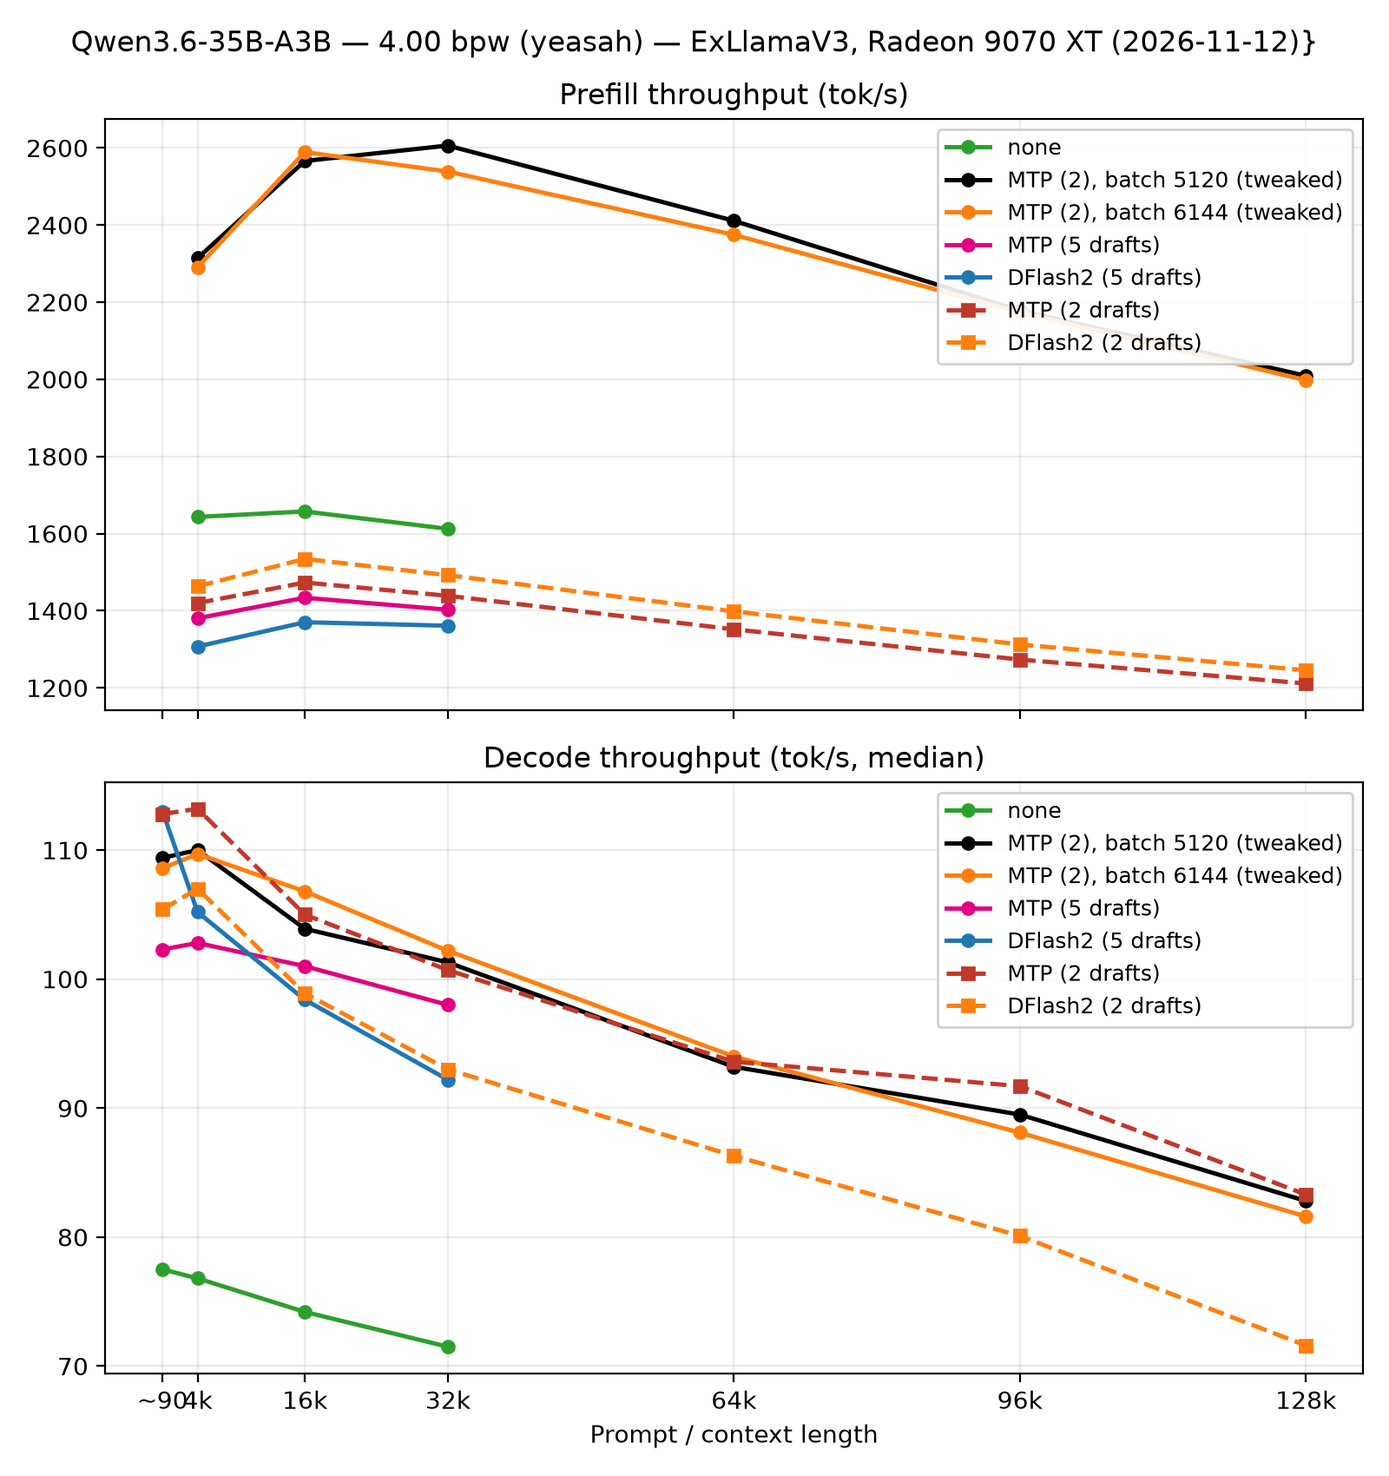
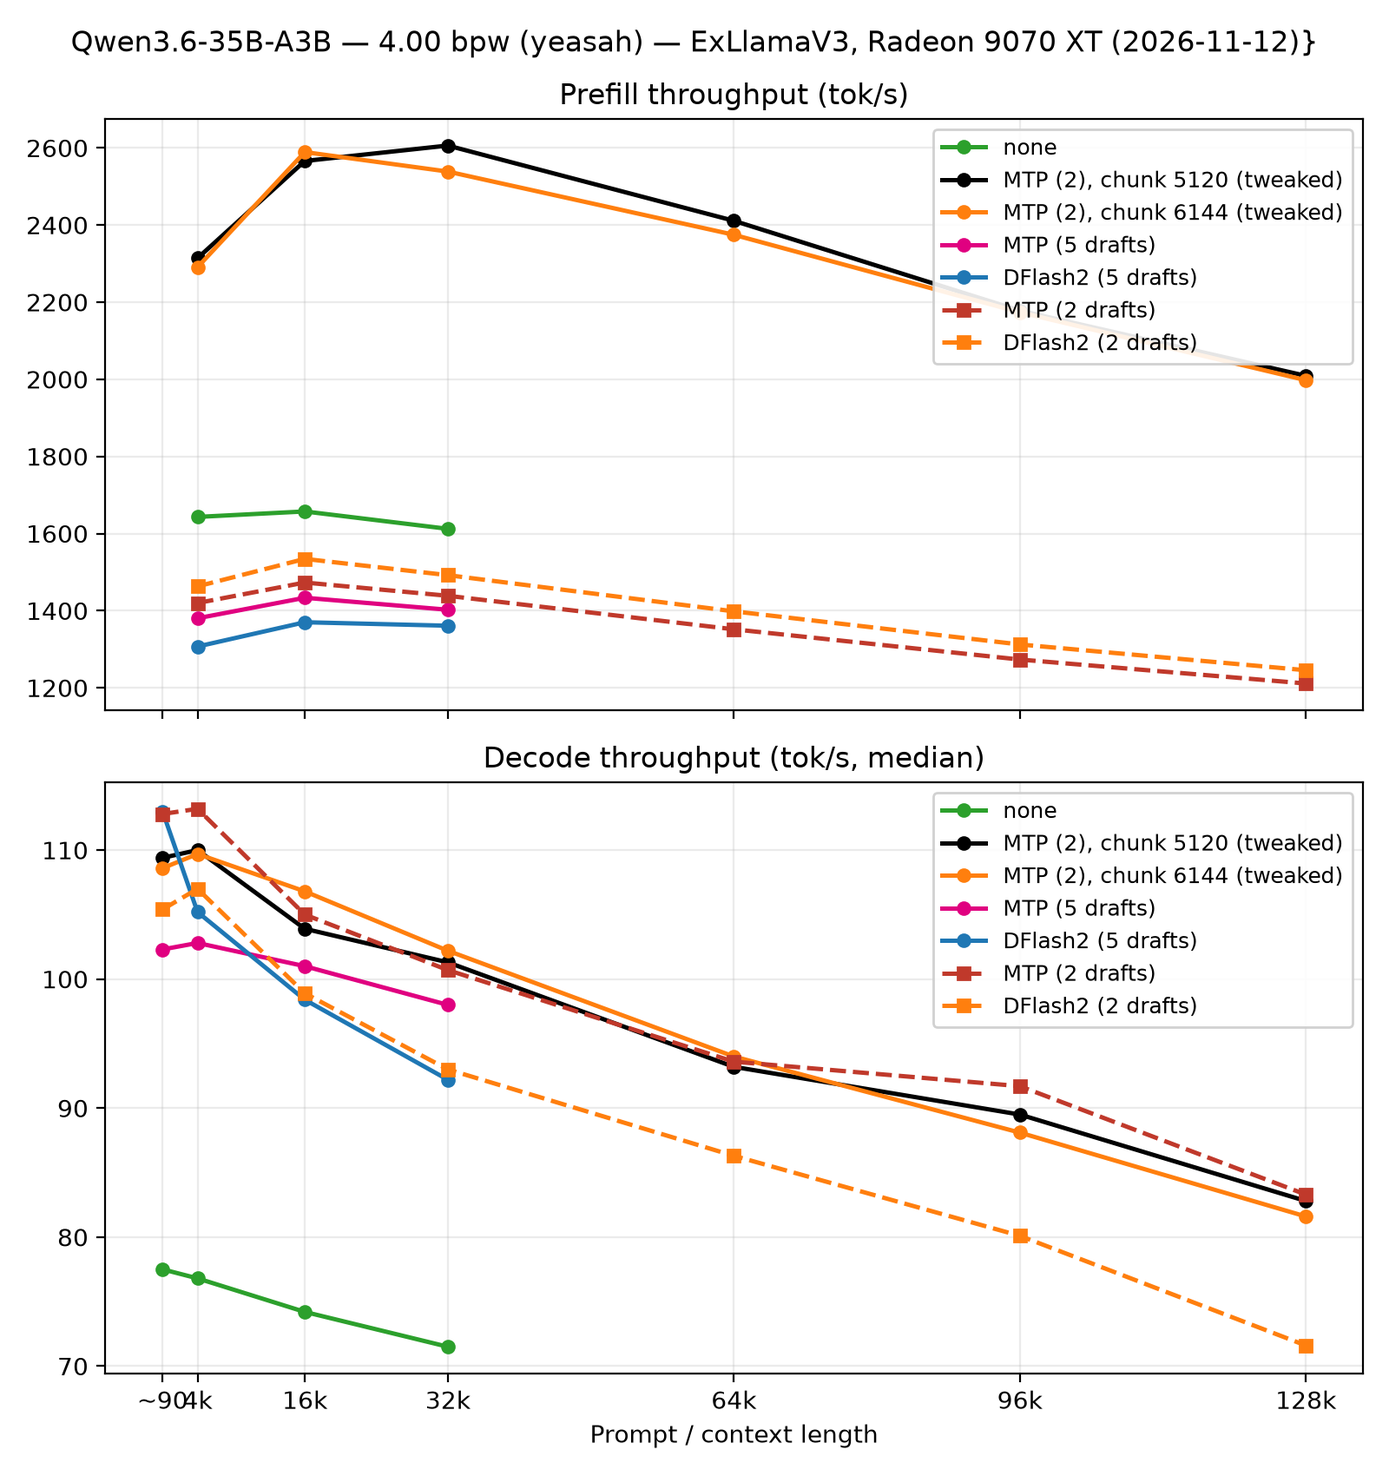
batch size is chunk size.....

Changed region(s): [[0.6562, 0.0935, 0.875, 0.2494], [0.6562, 0.53, 0.875, 0.6859]]

diff --git a/plots/qwen_per_quant.py b/plots/qwen_per_quant.py
@@ -20,8 +20,8 @@ quants = {
             "none":      [1643.1, 1657.3, 1612.2],
             "MTP":       [1380.3, 1433.5, 1402.4],
             "DFlash2":   [1307.0, 1370.0, 1361.0],
-            "MTP (2), batch 5120 (tweaked)": [2314, 2566, 2606, 2411, 2178, 2009],
-            "MTP (2), batch 6144 (tweaked)": [2290.7, 2589.1, 2538.6, 2374.7, 2173.8, 1997.7],
+            "MTP (2), chunk 5120 (tweaked)": [2314, 2566, 2606, 2411, 2178, 2009],
+            "MTP (2), chunk 6144 (tweaked)": [2290.7, 2589.1, 2538.6, 2374.7, 2173.8, 1997.7],
             "MTP (2 drafts)": [1419.8, 1473.0, 1438.6, 1351.7, 1273.3, 1211.2],
             "DFlash2 (2 drafts)": [1463.0, 1534.3, 1492.1, 1398.3, 1312.4, 1245.6],
         },
@@ -29,8 +29,8 @@ quants = {
             "none":      [77.5, 76.8, 74.2, 71.5],
             "MTP":       [102.3, 102.8, 101.0, 98.0],
             "DFlash2":   [113.0, 105.2, 98.4, 92.2],
-            "MTP (2), batch 5120 (tweaked)": [109.4, 110.0, 103.9, 101.3, 93.2, 89.5, 82.8],
-            "MTP (2), batch 6144 (tweaked)": [108.6, 109.7, 106.8, 102.2, 94.0, 88.1, 81.6],
+            "MTP (2), chunk 5120 (tweaked)": [109.4, 110.0, 103.9, 101.3, 93.2, 89.5, 82.8],
+            "MTP (2), chunk 6144 (tweaked)": [108.6, 109.7, 106.8, 102.2, 94.0, 88.1, 81.6],
             "MTP (2 drafts)": [112.8, 113.2, 105.0, 100.7, 93.6, 91.7, 83.3],
             "DFlash2 (2 drafts)": [105.4, 107.0, 98.9, 93.0, 86.3, 80.1, 71.6],
         },
@@ -96,12 +96,12 @@ quants = {
 }
 
 # draw order, color, line style
-order = ["none", "MTP (2), batch 5120 (tweaked)", "MTP (2), batch 6144 (tweaked)", "MTP", "DFlash2", "PolyStrata", "MTP (2 drafts)", "DFlash2 (2 drafts)"]
-colors = {"none": "#2ca02c", "MTP (2), batch 5120 (tweaked)": "#000000",
-          "MTP (2), batch 6144 (tweaked)": "#ff7f0e", "MTP": "#e00080", "DFlash2": "#1f77b4",
+order = ["none", "MTP (2), chunk 5120 (tweaked)", "MTP (2), chunk 6144 (tweaked)", "MTP", "DFlash2", "PolyStrata", "MTP (2 drafts)", "DFlash2 (2 drafts)"]
+colors = {"none": "#2ca02c", "MTP (2), chunk 5120 (tweaked)": "#000000",
+          "MTP (2), chunk 6144 (tweaked)": "#ff7f0e", "MTP": "#e00080", "DFlash2": "#1f77b4",
           "PolyStrata": "#9467bd",
           "MTP (2 drafts)": "#c0392b", "DFlash2 (2 drafts)": "#ff7f0e"}
-styles = {"none": "-", "MTP (2), batch 5120 (tweaked)": "-", "MTP (2), batch 6144 (tweaked)": "-", "MTP": "-", "DFlash2": "-", "PolyStrata": "-",
+styles = {"none": "-", "MTP (2), chunk 5120 (tweaked)": "-", "MTP (2), chunk 6144 (tweaked)": "-", "MTP": "-", "DFlash2": "-", "PolyStrata": "-",
           "MTP (2 drafts)": "--", "DFlash2 (2 drafts)": "--"}
 
 

diff --git a/plots/best_q4_128k.py b/plots/best_q4_128k.py
@@ -33,17 +33,17 @@ RUNS = [
     },
     {
         # Qwen3.6 winner: EXL3 4.0 bpw, MTP (2 draft tokens, no external
-        # drafter) on the tweaked baseline, batch 5120 (12:59Z FULL RUN)
+        # drafter) on the tweaked baseline, chunk 5120 (12:59Z FULL RUN)
         # 128k total 2 009 + 82.8 = 2 092.
-        "label": "Qwen3.6-35B-A3B — EXL3 4.0 bpw, MTP (2), batch 5120 — exllamav3 (tweaked, 12:59Z)",
+        "label": "Qwen3.6-35B-A3B — EXL3 4.0 bpw, MTP (2), chunk 5120 — exllamav3 (tweaked, 12:59Z)",
         "color": "#1f77b4",
         "prefill": [2314, 2566, 2606, 2411, 2178, 2009],
         "decode": [109.4, 110.0, 103.9, 101.3, 93.2, 89.5, 82.8],
     },
     {
-        # 2026-11-17 re-run of the tweaked baseline with batch 6144 —
+        # 2026-11-17 re-run of the tweaked baseline with chunk 6144 —
         # within ~2% of the winner everywhere (128k total 2 079), not a win.
-        "label": "Qwen3.6-35B-A3B — EXL3 4.0 bpw, MTP (2), batch 6144 — exllamav3 (tweaked, 11-17)",
+        "label": "Qwen3.6-35B-A3B — EXL3 4.0 bpw, MTP (2), chunk 6144 — exllamav3 (tweaked, 11-17)",
         "color": "#9ecae1",
         "prefill": [2290.7, 2589.1, 2538.6, 2374.7, 2173.8, 1997.7],
         "decode": [108.6, 109.7, 106.8, 102.2, 94.0, 88.1, 81.6],

diff --git a/plots/generate_graphs.py b/plots/generate_graphs.py
@@ -11,7 +11,7 @@ import os
 RESULTS_DIR = "/home/willyhetland/Storage/code/llm-bench/results"
 OUTPUT_DIR = "/home/willyhetland/Storage/code/moe-offload-bench/plots"
 
-# Load all Qwen3.6-35B-A3B tweak runs (2026-11-15 bake-off + 2026-11-17 batch 6144)
+# Load all Qwen3.6-35B-A3B tweak runs (2026-11-15 bake-off + 2026-11-17 chunk 6144)
 files = sorted([
     f for f in os.listdir(RESULTS_DIR)
     if f.startswith(("20261115", "20261117")) and "qwen3-6-35b" in f
@@ -26,11 +26,11 @@ for f in files:
 # Extract key metrics
 labels = [r["tag"] for r in runs]
 short_labels = [
-    "batch inc\nno cpu_threads",
-    "batch 4096\npinned false",
+    "chunk inc\nno cpu_threads",
+    "chunk 4096\npinned false",
     "pinned true",
-    "batch 4096\ncpu_threads 6",
-    "batch 5120\ncpu_threads 6",
+    "chunk 4096\ncpu_threads 6",
+    "chunk 5120\ncpu_threads 6",
     "swizzle -1",
     "wide -1",
     "gdn_sub 2048",

diff --git a/Qwen3.6-35b-a3b-improvements.md b/Qwen3.6-35b-a3b-improvements.md
@@ -6,8 +6,8 @@ Each run has its own config directory under `configs/` with a `config.yml` and `
 
 | Run | Directory | Key Differences |
 |-----|-----------|-----------------|
-| 1 | [configs/run1-batch5120/](configs/run1-batch5120/) | chunk_size 5120, pinned_arena false, vision_offload true, threads 7 |
-| 2 | [configs/run2-batch4096/](configs/run2-batch4096/) | chunk_size 4096, pinned_arena false, vision_offload true, threads 7 |
+| 1 | [configs/run1-chunk5120/](configs/run1-chunk5120/) | chunk_size 5120, pinned_arena false, vision_offload true, threads 7 |
+| 2 | [configs/run2-chunk4096/](configs/run2-chunk4096/) | chunk_size 4096, pinned_arena false, vision_offload true, threads 7 |
 | 3 | [configs/run3-pinned-true/](configs/run3-pinned-true/) | chunk_size 4096, pinned_arena **true**, vision_offload true |
 | 4 | [configs/run4-no-vision-offload/](configs/run4-no-vision-offload/) | chunk_size 4096, pinned_arena false, vision_offload **false** |
 
@@ -21,17 +21,17 @@ All runs share `EXL3_QC_STAGING=1` and `EXL3_GDN_REPLAY=1`. Runs 2–4 were laun
 
 | # | Timestamp | Tag | Chunk Size | Pinned Arena | VRAM | Decode TPS (med) | Decode @4k (med) | Decode @16k (med) | Decode @32k (med) |
 |---|-----------|-----|------------|--------------|------|------------------|------------------|-------------------|-------------------|
-| 0 | 2026-11-15 11:27 | pinned experts false, batch increase (no cpu_stage_threads) | — | false | — | 97.95 | 100.09 | 98.12 | 94.01 |
-| 1 | 2026-11-15 12:04 | pinned experts false, batch 5120, vision offload, cpu_stage_threads 6, threads 7 | 5120 | false | 14.7 GB | **118.94** | **114.67** | **106.98** | **104.13** |
-| 2 | 2026-11-15 11:56 | pinned experts false, batch 4096, vision offload, cpu_stage_threads 6, threads 7 | 4096 | false | 14.5 GB | 117.71 | 115.28 | 108.25 | 101.54 |
-| 3 | 2026-11-15 11:50 | pinned experts true, batch 4096, vision offload | 4096 | true | 13.5 GB | 112.67 | 110.51 | 103.24 | 96.18 |
-| 4 | 2026-11-15 11:44 | pinned experts false, batch 4096 | 4096 | false | — | 106.59 | 107.27 | 103.19 | 97.45 |
-| 5 | 2026-11-15 12:27 | pinned experts false, batch 5120, vision offload, cpu_stage_threads 6, threads 7, **swizzle -1** | 5120 | false | 14.7 GB | 112.36 | 114.36 | 105.67 | 104.29 |
-| 6 | 2026-11-15 12:37 | pinned experts false, batch 5120, vision offload, cpu_stage_threads 6, threads 7, **wide -1** | 5120 | false | 14.7 GB | 107.31 | 113.13 | 103.87 | 102.98 |
-| 7 | 2026-11-15 12:45 | pinned experts false, batch 5120, vision offload, cpu_stage_threads 6, threads 7, **gdn_sub_chunk 2048** | 5120 | false | 14.7 GB | 105.73 | 107.40 | 102.42 | 96.85 |
-| 8 | 2026-11-15 12:52 | pinned experts false, batch 5120, vision offload, cpu_stage_threads 6, threads 7, **bc_gdn -1** | 5120 | false | 14.7 GB | 109.18 | 110.24 | 105.05 | 96.58 |
-| 9 | 2026-11-15 12:59 | pinned experts false, batch 5120, vision offload, cpu_stage_threads 6, threads 7, **FULL RUN** (4k→128k), MTP (2) | 5120 | false | 14.7 GB | 109.37 | 109.97 | 103.90 | 101.28 |
-| 10 | 2026-11-17 09:59 | pinned experts false, batch 6144, vision offload, cpu_stage_threads 6, threads 7, **FULL RUN** (4k→128k), MTP (2) | **6144** | false | 15 GB | 108.56 | 109.73 | 106.81 | 102.15 |
+| 0 | 2026-11-15 11:27 | pinned experts false, chunk increase (no cpu_stage_threads) | — | false | — | 97.95 | 100.09 | 98.12 | 94.01 |
+| 1 | 2026-11-15 12:04 | pinned experts false, chunk 5120, vision offload, cpu_stage_threads 6, threads 7 | 5120 | false | 14.7 GB | **118.94** | **114.67** | **106.98** | **104.13** |
+| 2 | 2026-11-15 11:56 | pinned experts false, chunk 4096, vision offload, cpu_stage_threads 6, threads 7 | 4096 | false | 14.5 GB | 117.71 | 115.28 | 108.25 | 101.54 |
+| 3 | 2026-11-15 11:50 | pinned experts true, chunk 4096, vision offload | 4096 | true | 13.5 GB | 112.67 | 110.51 | 103.24 | 96.18 |
+| 4 | 2026-11-15 11:44 | pinned experts false, chunk 4096 | 4096 | false | — | 106.59 | 107.27 | 103.19 | 97.45 |
+| 5 | 2026-11-15 12:27 | pinned experts false, chunk 5120, vision offload, cpu_stage_threads 6, threads 7, **swizzle -1** | 5120 | false | 14.7 GB | 112.36 | 114.36 | 105.67 | 104.29 |
+| 6 | 2026-11-15 12:37 | pinned experts false, chunk 5120, vision offload, cpu_stage_threads 6, threads 7, **wide -1** | 5120 | false | 14.7 GB | 107.31 | 113.13 | 103.87 | 102.98 |
+| 7 | 2026-11-15 12:45 | pinned experts false, chunk 5120, vision offload, cpu_stage_threads 6, threads 7, **gdn_sub_chunk 2048** | 5120 | false | 14.7 GB | 105.73 | 107.40 | 102.42 | 96.85 |
+| 8 | 2026-11-15 12:52 | pinned experts false, chunk 5120, vision offload, cpu_stage_threads 6, threads 7, **bc_gdn -1** | 5120 | false | 14.7 GB | 109.18 | 110.24 | 105.05 | 96.58 |
+| 9 | 2026-11-15 12:59 | pinned experts false, chunk 5120, vision offload, cpu_stage_threads 6, threads 7, **FULL RUN** (4k→128k), MTP (2) | 5120 | false | 14.7 GB | 109.37 | 109.97 | 103.90 | 101.28 |
+| 10 | 2026-11-17 09:59 | pinned experts false, chunk 6144, vision offload, cpu_stage_threads 6, threads 7, **FULL RUN** (4k→128k), MTP (2) | **6144** | false | 15 GB | 108.56 | 109.73 | 106.81 | 102.15 |
 
 > **Run 10 (2026-11-17 09:59) power & VRAM:** GPU at ~260 W, VRAM max ~15.3 GB.
 >
@@ -122,17 +122,17 @@ Full benchmark JSONs are stored in the `results/` directory:
 |---|------|-----|
 | # | File | Tag |
 |---|------|-----|
-| 0 | [results/20261115T112713Z-qwen3-6-35b-a3b-exl3-4-00bpw.json](results/qwen/20261115T112713Z-qwen3-6-35b-a3b-exl3-4-00bpw.json) | pinned experts false, batch increase (no cpu_stage_threads) |
-| 1 | [results/20261115T114428Z-qwen3-6-35b-a3b-exl3-4-00bpw.json](results/qwen/20261115T114428Z-qwen3-6-35b-a3b-exl3-4-00bpw.json) | pinned experts false, batch 4096 |
-| 2 | [results/20261115T115017Z-qwen3-6-35b-a3b-exl3-4-00bpw.json](results/qwen/20261115T115017Z-qwen3-6-35b-a3b-exl3-4-00bpw.json) | pinned experts true, batch 4096, vision offload |
-| 3 | [results/20261115T115658Z-qwen3-6-35b-a3b-exl3-4-00bpw.json](results/qwen/20261115T115658Z-qwen3-6-35b-a3b-exl3-4-00bpw.json) | pinned experts false, batch 4096, vision offload, cpu_stage_threads 6, threads 7 |
-| 4 | [results/20261115T120402Z-qwen3-6-35b-a3b-exl3-4-00bpw.json](results/qwen/20261115T120402Z-qwen3-6-35b-a3b-exl3-4-00bpw.json) | pinned experts false, batch 5120, vision offload, cpu_stage_threads 6, threads 7 |
-| 5 | [results/20261115T122705Z-qwen3-6-35b-a3b-exl3-4-00bpw.json](results/qwen/20261115T122705Z-qwen3-6-35b-a3b-exl3-4-00bpw.json) | pinned experts false, batch 5120, vision offload, cpu_stage_threads 6, threads 7, swizzle -1 |
-| 6 | [results/20261115T123728Z-qwen3-6-35b-a3b-exl3-4-00bpw.json](results/qwen/20261115T123728Z-qwen3-6-35b-a3b-exl3-4-00bpw.json) | pinned experts false, batch 5120, vision offload, cpu_stage_threads 6, threads 7, wide -1 |
-| 7 | [results/20261115T124540Z-qwen3-6-35b-a3b-exl3-4-00bpw.json](results/qwen/20261115T124540Z-qwen3-6-35b-a3b-exl3-4-00bpw.json) | pinned experts false, batch 5120, vision offload, cpu_stage_threads 6, threads 7, gdn_sub_chunk 2048 |
-| 8 | [results/20261115T125239Z-qwen3-6-35b-a3b-exl3-4-00bpw.json](results/qwen/20261115T125239Z-qwen3-6-35b-a3b-exl3-4-00bpw.json) | pinned experts false, batch 5120, vision offload, cpu_stage_threads 6, threads 7, bc_gdn -1 |
-| 9 | [results/20261115T125911Z-qwen3-6-35b-a3b-exl3-4-00bpw.json](results/qwen/20261115T125911Z-qwen3-6-35b-a3b-exl3-4-00bpw.json) | pinned experts false, batch 5120, vision offload, cpu_stage_threads 6, threads 7, FULL RUN (4k→128k), MTP (2) |
-| 10 | [results/20261117T095948Z-qwen3-6-35b-a3b-exl3-4-00bpw.json](results/qwen/20261117T095948Z-qwen3-6-35b-a3b-exl3-4-00bpw.json) | pinned experts false, batch 6144, vision offload, cpu_stage_threads 6, threads 7, FULL RUN (4k→128k), MTP (2) |
+| 0 | [results/20261115T112713Z-qwen3-6-35b-a3b-exl3-4-00bpw.json](results/qwen/20261115T112713Z-qwen3-6-35b-a3b-exl3-4-00bpw.json) | pinned experts false, chunk increase (no cpu_stage_threads) |
+| 1 | [results/20261115T114428Z-qwen3-6-35b-a3b-exl3-4-00bpw.json](results/qwen/20261115T114428Z-qwen3-6-35b-a3b-exl3-4-00bpw.json) | pinned experts false, chunk 4096 |
+| 2 | [results/20261115T115017Z-qwen3-6-35b-a3b-exl3-4-00bpw.json](results/qwen/20261115T115017Z-qwen3-6-35b-a3b-exl3-4-00bpw.json) | pinned experts true, chunk 4096, vision offload |
+| 3 | [results/20261115T115658Z-qwen3-6-35b-a3b-exl3-4-00bpw.json](results/qwen/20261115T115658Z-qwen3-6-35b-a3b-exl3-4-00bpw.json) | pinned experts false, chunk 4096, vision offload, cpu_stage_threads 6, threads 7 |
+| 4 | [results/20261115T120402Z-qwen3-6-35b-a3b-exl3-4-00bpw.json](results/qwen/20261115T120402Z-qwen3-6-35b-a3b-exl3-4-00bpw.json) | pinned experts false, chunk 5120, vision offload, cpu_stage_threads 6, threads 7 |
+| 5 | [results/20261115T122705Z-qwen3-6-35b-a3b-exl3-4-00bpw.json](results/qwen/20261115T122705Z-qwen3-6-35b-a3b-exl3-4-00bpw.json) | pinned experts false, chunk 5120, vision offload, cpu_stage_threads 6, threads 7, swizzle -1 |
+| 6 | [results/20261115T123728Z-qwen3-6-35b-a3b-exl3-4-00bpw.json](results/qwen/20261115T123728Z-qwen3-6-35b-a3b-exl3-4-00bpw.json) | pinned experts false, chunk 5120, vision offload, cpu_stage_threads 6, threads 7, wide -1 |
+| 7 | [results/20261115T124540Z-qwen3-6-35b-a3b-exl3-4-00bpw.json](results/qwen/20261115T124540Z-qwen3-6-35b-a3b-exl3-4-00bpw.json) | pinned experts false, chunk 5120, vision offload, cpu_stage_threads 6, threads 7, gdn_sub_chunk 2048 |
+| 8 | [results/20261115T125239Z-qwen3-6-35b-a3b-exl3-4-00bpw.json](results/qwen/20261115T125239Z-qwen3-6-35b-a3b-exl3-4-00bpw.json) | pinned experts false, chunk 5120, vision offload, cpu_stage_threads 6, threads 7, bc_gdn -1 |
+| 9 | [results/20261115T125911Z-qwen3-6-35b-a3b-exl3-4-00bpw.json](results/qwen/20261115T125911Z-qwen3-6-35b-a3b-exl3-4-00bpw.json) | pinned experts false, chunk 5120, vision offload, cpu_stage_threads 6, threads 7, FULL RUN (4k→128k), MTP (2) |
+| 10 | [results/20261117T095948Z-qwen3-6-35b-a3b-exl3-4-00bpw.json](results/qwen/20261117T095948Z-qwen3-6-35b-a3b-exl3-4-00bpw.json) | pinned experts false, chunk 6144, vision offload, cpu_stage_threads 6, threads 7, FULL RUN (4k→128k), MTP (2) |
 
 ---
 

diff --git a/QWEN3.6-35B-A3B.md b/QWEN3.6-35B-A3B.md
@@ -216,7 +216,7 @@ run.)
 
 ## Improved baseline — full range 4k→128k (2026-11-15)
 
-A follow-up full-range run with the improved baseline config (batch 5120,
+A follow-up full-range run with the improved baseline config (chunk 5120,
 cpu_stage_threads 6, pinned_arena false, vision_offload true) — MTP speculation
 (2 draft tokens, no external drafter), no GDN/swizzle flags. See
 [Qwen3.6-35b-a3b-improvements.md](Qwen3.6-35b-a3b-improvements.md)
@@ -238,12 +238,12 @@ for the full comparison of tweak flags.
 | Prefill 96k TPS | 2178 (TTFT 45.24 s) |
 | Prefill 128k TPS | 2009 (TTFT 64.20 s) |
 
-### Batch 6144 re-run (2026-11-17 09:59Z)
+### Chunk 6144 re-run (2026-11-17 09:59Z)
 
-Same tweaked baseline with the batch size raised 5120 → 6144 (same MTP 2
+Same tweaked baseline with the chunk size raised 5120 → 6144 (same MTP 2
 drafter). GPU peaked at **15.3 GB VRAM**, ~260 W.
 
-| Metric | Value | Δ vs batch 5120 |
+| Metric | Value | Δ vs chunk 5120 |
 | --- | --- | --- |
 | Decode TPS (med, short) | 108.56 (102.87–110.01) | −0.7% |
 | Decode @4k (med) | 109.73 (108.26–112.85) | −0.2% |
@@ -259,8 +259,8 @@ drafter). GPU peaked at **15.3 GB VRAM**, ~260 W.
 | Prefill 96k TPS | 2 174 (TTFT 45.32 s) | −0.2% |
 | Prefill 128k TPS | 1 998 (TTFT 64.57 s) | −0.6% |
 
-Within ~1–2% of the batch-5120 winner at every context — the larger batch buys
-nothing, so the batch-5120 config stays the reference (128k total 2 092 vs
+Within ~1–2% of the chunk-5120 winner at every context — the larger chunk buys
+nothing, so the chunk-5120 config stays the reference (128k total 2 092 vs
 2 079).
 
 vs the original 4.00 bpw aside runs (2 draft tokens):
@@ -274,8 +274,8 @@ vs the original 4.00 bpw aside runs (2 draft tokens):
 - **At 128k: prefill 2 009 tok/s, decode 82.8 tok/s** — beats the DFlash2
   aside at 128k (1 246 / 71.6) and matches the MTP aside (1 211 / 83.3).
 
-Raw: [results/20261115T125911Z-qwen3-6-35b-a3b-exl3-4-00bpw.json](results/qwen/20261115T125911Z-qwen3-6-35b-a3b-exl3-4-00bpw.json) (batch 5120),
-[results/20261117T095948Z-qwen3-6-35b-a3b-exl3-4-00bpw.json](results/qwen/20261117T095948Z-qwen3-6-35b-a3b-exl3-4-00bpw.json) (batch 6144)
+Raw: [results/20261115T125911Z-qwen3-6-35b-a3b-exl3-4-00bpw.json](results/qwen/20261115T125911Z-qwen3-6-35b-a3b-exl3-4-00bpw.json) (chunk 5120),
+[results/20261117T095948Z-qwen3-6-35b-a3b-exl3-4-00bpw.json](results/qwen/20261117T095948Z-qwen3-6-35b-a3b-exl3-4-00bpw.json) (chunk 6144)
 
 ## GGUF runs — UD Q4_K_XL (llama.cpp, Strata, PolyStrata)
 

diff --git a/ornith-1-5-tweaks.md b/ornith-1-5-tweaks.md
@@ -63,7 +63,7 @@ Key run-time settings (both runs):
 
 | # | Timestamp | Tag | Draft | VRAM | Short decode (med) | 4k | 16k | 32k | 64k | 96k | 128k |
 |---|-----------|-----|---------|------|--------------------|----|----|-----|-----|-----|------|
-| 1 | 2026-11-15 13:55Z | `pinned experts false and batch increase 5120 vision offload vision off 14.9gb vram cpu_stage_threads 6, threads 7, FULL RUN` | unset (unverified) | 14.9 GB | **91.8** | 93.8 | 99.6 | 86.3* | 72.7 | 59.7 (n=2) | 55.7 (n=2) |
+| 1 | 2026-11-15 13:55Z | `pinned experts false and chunk increase 5120 vision offload vision off 14.9gb vram cpu_stage_threads 6, threads 7, FULL RUN` | unset (unverified) | 14.9 GB | **91.8** | 93.8 | 99.6 | 86.3* | 72.7 | 59.7 (n=2) | 55.7 (n=2) |
 | 2 | 2026-11-15 14:31Z | `… threads 7, FULL RUN dflash2 num tokens 4` | DFlash2, 4tok | 14.9 GB | 83.8 | 78.8* | 93.2 | 76.9 | 70.7 | 49.8 (n=2) | 48.2 (n=2) |
 
 * 13:55Z @32k median includes 3 early-stop runs (197/205/221 of 512);
@@ -151,5 +151,5 @@ Pre-tune exllamav3 20:53Z: 94.0 / 92.3 / 104.5 / 82.6 / 73.1 / 61.7 / 57.3.
 
 | # | File | Tags |
 |---|------|-------------|
-| 1 | [results/ornith/exllamav3-20261115T135554Z-ornith-1-5-35b-a3b-exl3-4-00bpw-24gb-tuned.json](results/ornith/exllamav3-20261115T135554Z-ornith-1-5-35b-a3b-exl3-4-00bpw-24gb-tuned.json) | tuned baseline 5120 batch + vision offload + 14.9 GB VRAM, stage 6 / thread 7, FULL RUN (draft unset) |
+| 1 | [results/ornith/exllamav3-20261115T135554Z-ornith-1-5-35b-a3b-exl3-4-00bpw-24gb-tuned.json](results/ornith/exllamav3-20261115T135554Z-ornith-1-5-35b-a3b-exl3-4-00bpw-24gb-tuned.json) | tuned baseline chunk 5120 + vision offload + 14.9 GB VRAM, stage 6 / thread 7, FULL RUN (draft unset) |
 | 2 | [results/ornith/exllamav3-20261115T143144Z-ornith-1-5-35b-a3b-exl3-4-00bpw-24gb-tuned-dflash2.json](results/ornith/exllamav3-20261115T143144Z-ornith-1-5-35b-a3b-exl3-4-00bpw-24gb-tuned-dflash2.json) | same + DFlash2 drafter 4 draft tokens (draft_type: model) |

diff --git a/README.md b/README.md
@@ -85,15 +85,15 @@ bpw / UD Q4_K_XL GGUF); QFn Coder is IQ1_M, included for reference.
 | Model | Winner (quant / engine) | Prefill @128k | Decode @128k |
 | --- | --- | ---: | ---: |
 | Ornith 1.5 35B-A3B | EXL3 4.0 bpw, no-spec / exllamav3 (tweaked)† | **1 925 tok/s** | **55.7 tok/s** |
-| Qwen3.6-35B-A3B | EXL3 4.0 bpw, MTP (2), batch 5120 / exllamav3 (tweaked) | **2 009 tok/s** | **82.8 tok/s** |
+| Qwen3.6-35B-A3B | EXL3 4.0 bpw, MTP (2), chunk 5120 / exllamav3 (tweaked) | **2 009 tok/s** | **82.8 tok/s** |
 | Qwen3.8-Flash-Next Coder | IQ1_M / Polystrata nov-7 `--spec 2` | 1 572 tok/s | 44.0 tok/s |
 
 Excluded for not reaching 128k: llama.cpp Qwen3.6 runs and the exllamav3
 short-range Qwen3.6 runs (~32k max). QFn Coder has a single eligible run, so
 it is its own winner by default.
 
-The 2026-11-17 Qwen3.6 batch-6144 re-run (MTP 2, otherwise identical to the
-winner) lands at 1 998 / 81.6 at 128k — within ~2% of the batch-5120 winner on
+The 2026-11-17 Qwen3.6 chunk-6144 re-run (MTP 2, otherwise identical to the
+winner) lands at 1 998 / 81.6 at 128k — within ~2% of the chunk-5120 winner on
 both prefill and decode, so it does not take the win (128k total 2 079 vs
 2 092). See [Qwen3.6-35b-a3b-improvements.md](Qwen3.6-35b-a3b-improvements.md).
 
@@ -125,7 +125,7 @@ stale runs annotated there.
 - 13 × `exllamav3-20261112T…-q{4,5,6}-exl3-*.json` (EXL3 4.00/5.00/6.00 bpw; no-spec /
   MTP / DFlash2 short-range runs plus 2-draft asides)
 - 11 × `20261115T…Z-…-exl3-4-00bpw.json` / `20261117T095948Z-…json` (tweak-bake-off runs
-  0–9 from 2026-11-15 plus the 2026-11-17 batch-6144 re-run — see
+  0–9 from 2026-11-15 plus the 2026-11-17 chunk-6144 re-run — see
   [Qwen3.6-35b-a3b-improvements.md](Qwen3.6-35b-a3b-improvements.md) for tags)
 
 See [QWEN3.6-35B-A3B.md](QWEN3.6-35B-A3B.md) for the full annotated list.
